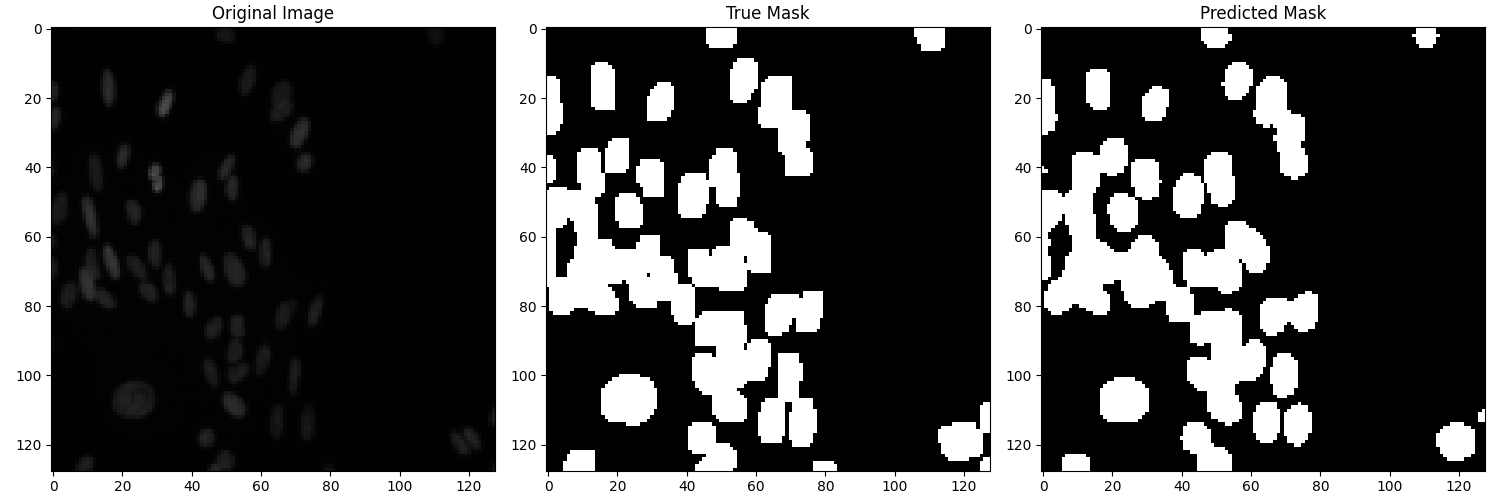
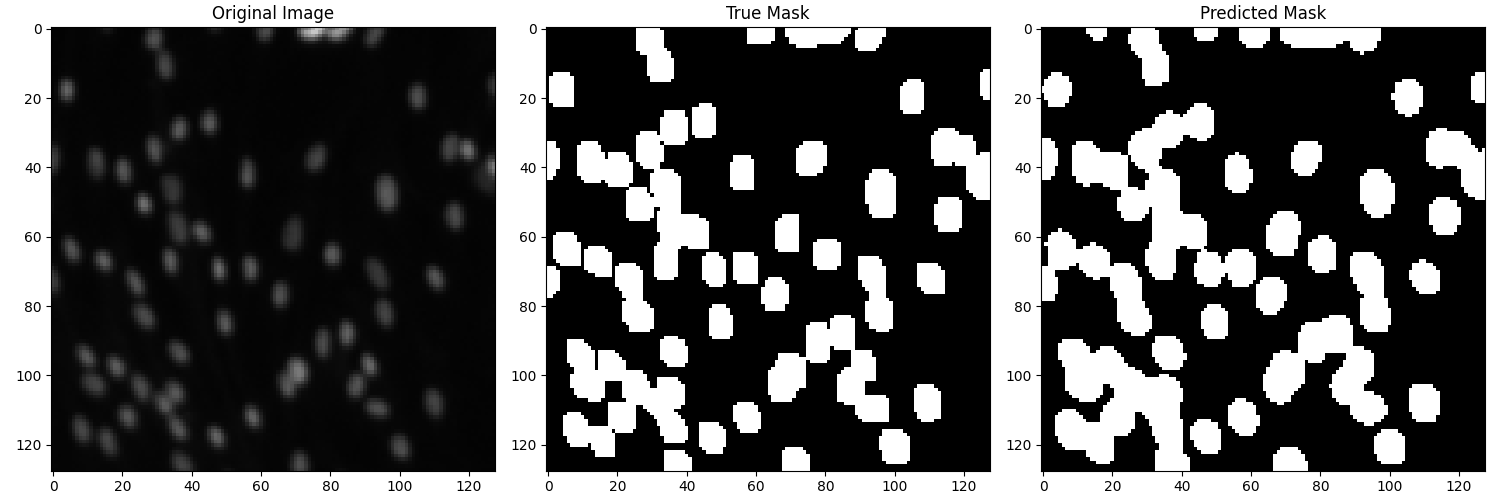
Optimize data loading and processing in model training for improved performance.

diff --git a/COMP1252-MP/Experimental/patcher_v2.py b/COMP1252-MP/Experimental/patcher_v2.py
@@ -25,7 +25,7 @@ class SentinelPatchProcessor:
     def __init__(self, patch_size: int = 224, cloud_coverage_threshold: float = 0.3, max_workers: int = 4):
         """
         Initialize the Sentinel-2 patch processor with cloud filtering.
-        
+
         Args:
             patch_size (int): Size of the output patches (default: 224)
             cloud_coverage_threshold (float): Maximum allowed cloud coverage (0.0 - 1.0)
@@ -76,7 +76,7 @@ class SentinelPatchProcessor:
             band_name_match = re.search(r'B\d{2}|B8A', band_path.name)
             if not band_name_match:
                 return None
-            
+
             band_name = band_name_match.group(0)
             if band_name not in self.required_bands:
                 return None
@@ -118,7 +118,7 @@ class SentinelPatchProcessor:
 
         with ThreadPoolExecutor(max_workers=self.max_workers) as executor:
             results = list(executor.map(resample_band, band_data.items()))
-            
+
         return dict(results)
 
     def _resample_array(self, array: np.ndarray, target_shape: Tuple[int, int]) -> np.ndarray:
@@ -269,10 +269,10 @@ def main():
             product_name = safe_dir.parent.name
             output_dir = output_base / product_name
             sample_files = glob('../Datasets/Testing/Samples/*.geojson')
-            
+
             if not sample_files:
                 raise FileNotFoundError("No .geojson files found in Testing/Samples/")
-            
+
             latest_file = max(sample_files, key=os.path.getctime)
             future = executor.submit(
                 processor.process_imagery,

diff --git a/COMP1252-MP/Solutions/model_v1.py b/COMP1252-MP/Solutions/model_v1.py
@@ -238,8 +238,8 @@ def train_model(model, train_loader, val_loader, criterion, optimizer, num_epoch
 
         with torch.no_grad():
             for inputs, masks in val_loader:
-                inputs = inputs.to(DEVICE)
-                masks = masks.to(DEVICE)
+                inputs = inputs.to(DEVICE, non_blocking=True)
+                masks = masks.to(DEVICE, non_blocking=True)
 
                 outputs = model(inputs)
                 loss = criterion(outputs, masks)
@@ -324,8 +324,8 @@ def main():
     train_dataset = NucleiDataset(X_train[:train_size], Y_train[:train_size])
     val_dataset = NucleiDataset(X_train[train_size:], Y_train[train_size:])
 
-    train_loader = DataLoader(train_dataset, batch_size=16, shuffle=True)
-    val_loader = DataLoader(val_dataset, batch_size=16)
+    train_loader = DataLoader(train_dataset, batch_size=16, shuffle=True, pin_memory=True)
+    val_loader = DataLoader(val_dataset, batch_size=16, pin_memory=True)
 
     # Initialize model, criterion, and optimizer
     model = UNet().to(DEVICE)
@@ -346,7 +346,7 @@ def main():
     # Make predictions
     model.eval()
     test_dataset = NucleiDataset(X_train[train_size:], Y_train[train_size:])  # Include masks
-    test_loader = DataLoader(test_dataset, batch_size=16)
+    test_loader = DataLoader(test_dataset, batch_size=16, pin_memory=True)
 
     predictions = []
     with torch.no_grad():
